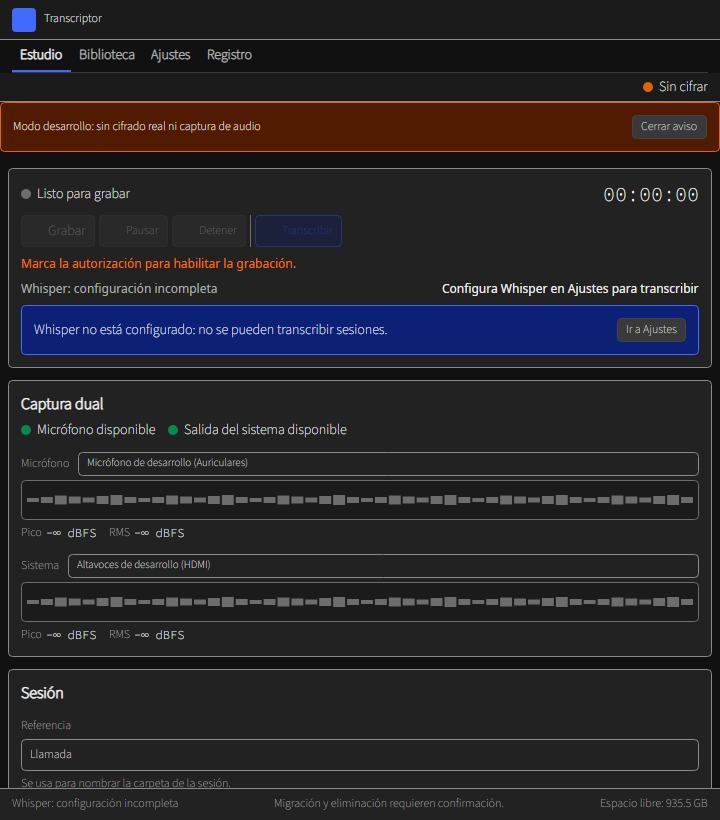
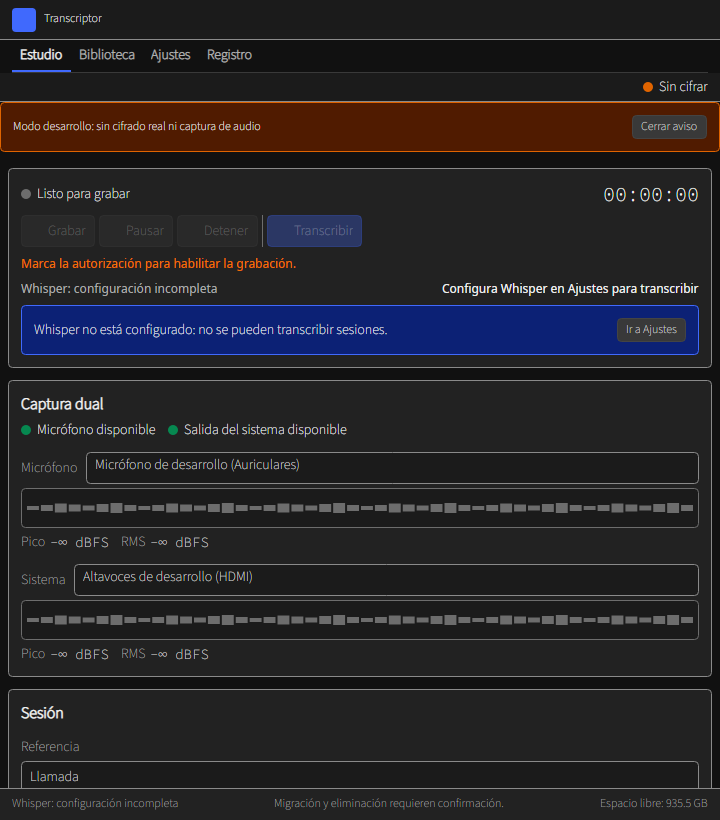
feat(ui): fase 3.5 - galería y captura de referencia
- Añade propiedades a SpectrumGalleryText para las nuevas variantes de
  botón (Primaria/Secundaria relleno/esbozo, esbozo) y tallas S/M/L/XL.
- Recaptura studio-reposo-1380x820 tras cambios de tipografía y tokens.
- Build verde, smoke OK, capturas generadas, 158 pruebas estables
  (2 fallos pre-existing de temporización headless en CaptureFault y
  ConsentGate, presentes en HEAD limpio).

diff --git a/desktop-dev/SpectrumGalleryText.cs b/desktop-dev/SpectrumGalleryText.cs
@@ -147,6 +147,15 @@ public static class SpectrumGalleryText
     public static string ComponentAlertDialog => Get(nameof(ComponentAlertDialog));
     public static string ComponentListView => Get(nameof(ComponentListView));
     public static string ComponentListRow => Get(nameof(ComponentListRow));
+    public static string ButtonPrimaryFill => Get(nameof(ButtonPrimaryFill));
+    public static string ButtonPrimaryOutline => Get(nameof(ButtonPrimaryOutline));
+    public static string ButtonSecondaryFill => Get(nameof(ButtonSecondaryFill));
+    public static string ButtonSecondaryOutline => Get(nameof(ButtonSecondaryOutline));
+    public static string ButtonOutline => Get(nameof(ButtonOutline));
+    public static string SizeS => Get(nameof(SizeS));
+    public static string SizeM => Get(nameof(SizeM));
+    public static string SizeL => Get(nameof(SizeL));
+    public static string SizeXL => Get(nameof(SizeXL));
 
     // Los controles sin contenido visible (deslizador, divisor, progreso) no
     // pueden heredar su nombre accesible del texto: se compone componente + estado.
